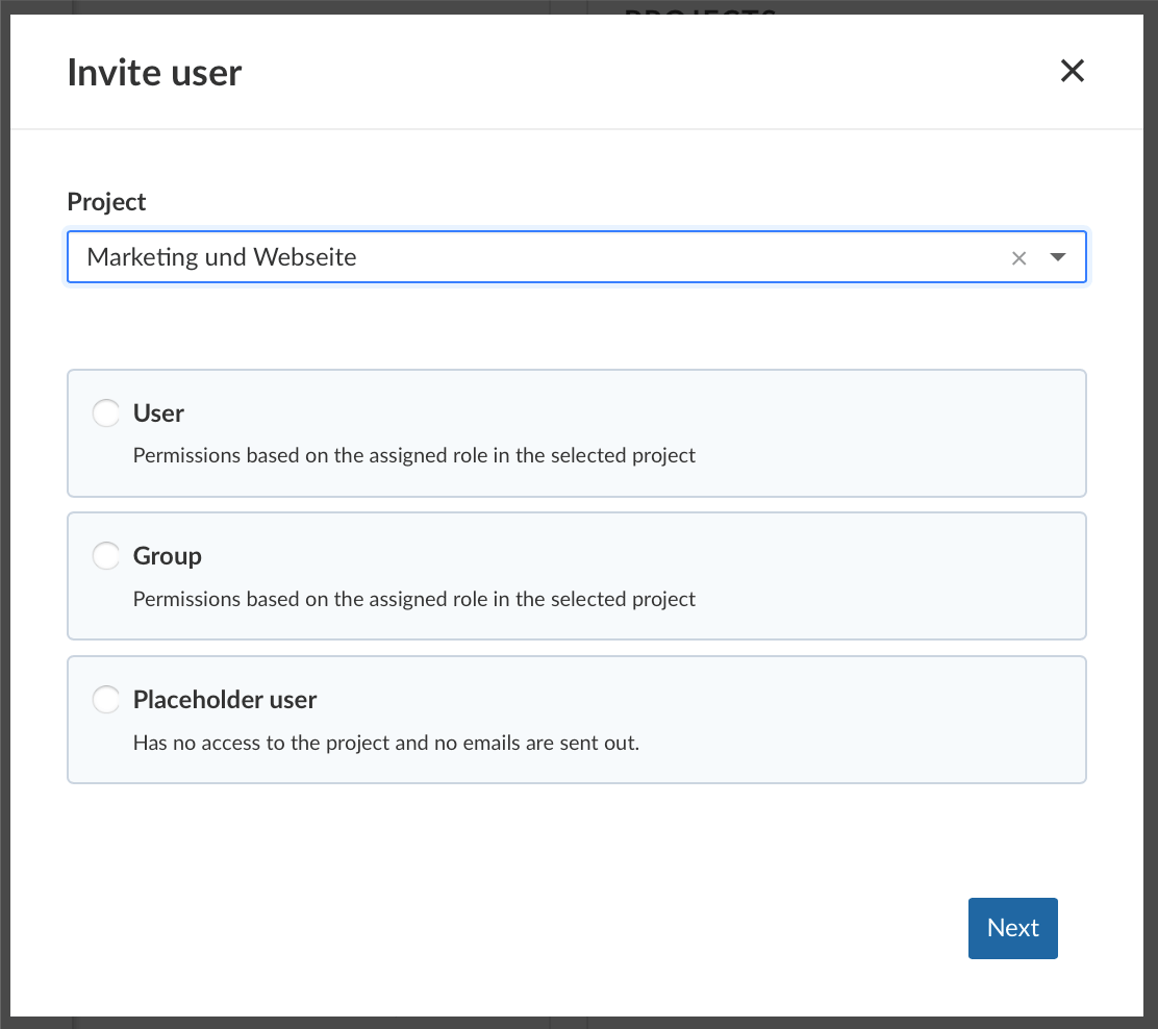
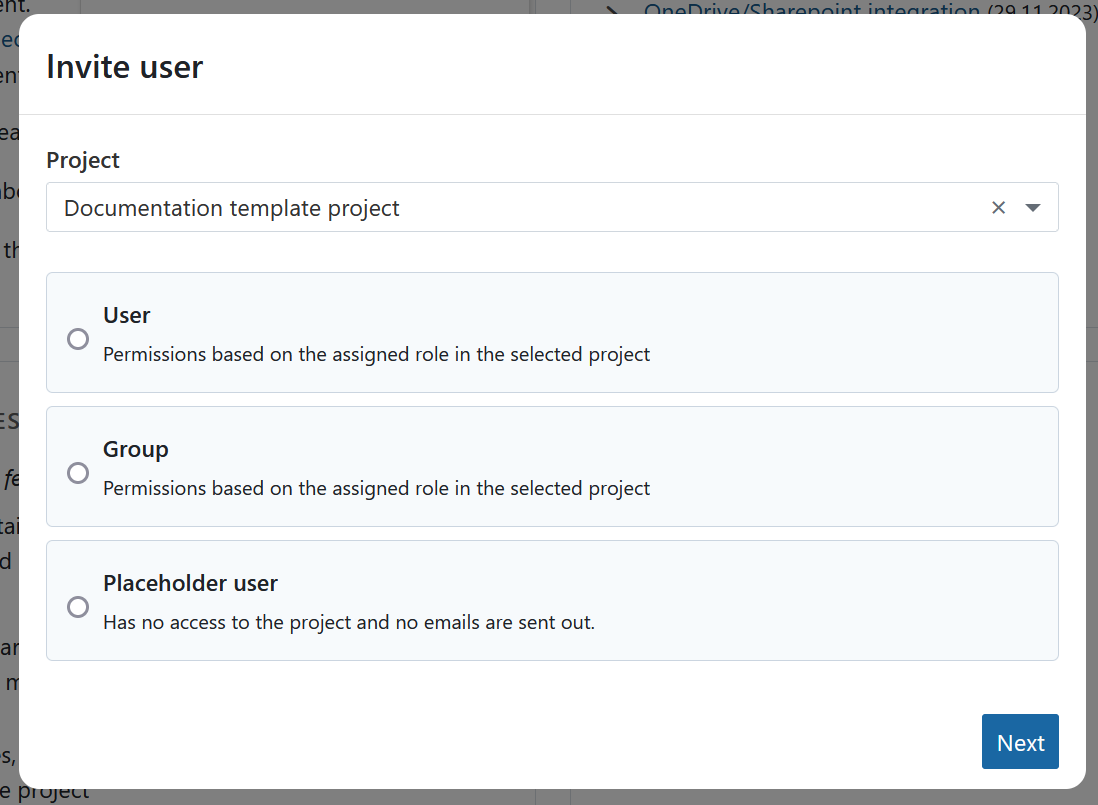
Docs changes to getting started guide
Updated the invite users section

diff --git a/docs/getting-started/invite-members/README.md b/docs/getting-started/invite-members/README.md
@@ -29,9 +29,13 @@ In order to see a project and work in it, you have to be a member of a project. 
 
 ## View members
 
-To view the list of **all project members and their roles** in the project, select Members in the project menu.
+To view the list of **all project members and their roles** in the project, select Members in the project menu on the left side. It will open a list of all the project members, including groups and external users, that work packages have been shared with.  
 
-![invite members](invite-members.png)
+You can use both filters in the left hand menu, as well as the filter options next to the **+ Member** button. 
+
+Please also refer to [Members module guide](../../user-guide/members).
+
+![invite members](project-members-module.png)
 
 ## Add existing users
 
@@ -45,7 +49,7 @@ Type the name of the user, placeholder user or group which you want to add. You 
 
 Please note that you will have to click on the new member's name or press the Enter key before clicking the Add button.
 
-![search bar for member selection invite members](search-bar-invite-members.png)
+![search bar for member selection invite members](invite-new-member.png)
 
 ## Invite new members
 
@@ -59,7 +63,7 @@ Type in the email address of the new member. If OpenProject does not find an exi
 
 An email invitation will be sent out to the user with a link to [create an account](../sign-in-registration/#create-a-new-account) for OpenProject.
 
-![invite new member via email in the members module](invite-new-member-via-email.png)
+![invite new member via email in the members module](invite-new-member-email.png)
 
 **Invite from header**
 
@@ -67,19 +71,19 @@ In the header menu that is always present, you find a green button that allows y
 
 ![green button for project creation](create-project-button.png)
 
-Once clicked on **Invite user**, a pop up comes up where you decide to which project you invite the new members and which roles they get.
+Once you clicked the **Invite user**, a dialogue will open. Here you can select the project, to which you want to invite new members and which roles they get.
 
 ![invite user pop up](invite-user-pop-up.png)
 
 **Invite within a work package**
 
-When you are working in the work package table, you can also invite users from there. For example when you want to set an assignee for a work package that has not got access to OpenProject yet, you can select Invite from the drop down. The same applies to accountables or custom fields for your project.
+When you are working in the work package table, you can also invite users from there. For example when you want to set an assignee for a work package that has not got access to OpenProject yet, you can select the Invite option from the drop down menu. The same applies to the column Accountable or custom fields for your project.
 
 ![invite user over assignment](invite-user-over-assignment.png)
 
 You can now collaborate with your team in OpenProject. Newly invited users will be shown with a letter symbol next to their name.
 
-Please note that removing a member who has not accepted the invite yet from a project will lead to the deletion of this user, which can't be reversed.
+> Please note that removing a member who has not accepted the invite from a project yet will lead to the deletion of this user, which can't be reversed.
 
 
 
